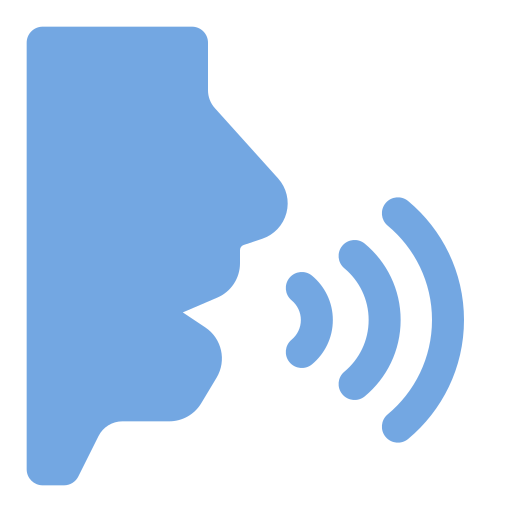
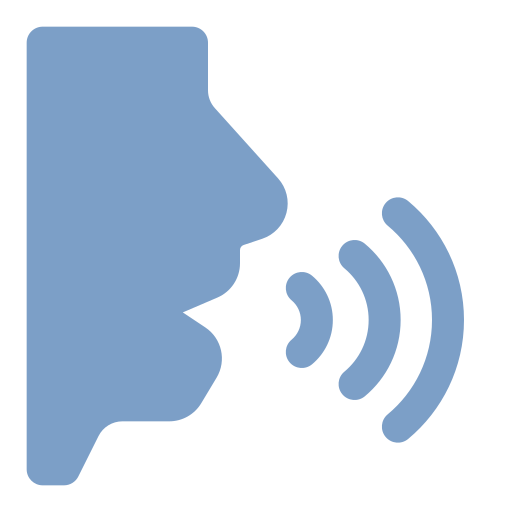
Ajustes acessibilidade

diff --git a/public/introducao.html b/public/introducao.html
@@ -13,7 +13,7 @@
     <header>
         <nav>
             <ul>
-                <li class="liPrincipal"><a href="../index.html" title="Página inicial" tabindex="0">INÍCIO</a></li>
+                <li class="liPrincipal" id="inicio"><a href="../index.html" title="Página inicial" tabindex="0">INÍCIO</a></li>
                 <li class="liPrincipal" style="background-color: #e9e9e9; box-shadow:1px 1px 1px #050505a4"><a href="introducao.html" title="Introdução" tabindex="0">INTRODUÇÃO</a></li>
                 <li class="liPrincipal"><a href="dicas.html" title="Dicas" tabindex="0">DICAS</a></li>
                 <li class="liPrincipal"><a href="passos.html" title="Passo a passo" tabindex="0"><img width="22px" src="../assets/img/icones/quebra-cabeca.png" alt="Ícone quebra-cabeça"></a></li>
@@ -27,7 +27,7 @@
         </nav>
     </header>
     <article id="acessibilidade">
-        <a href="#" title="Modo Escuro"><img src="../assets/img/icones/visivel.png" alt="Ícone modo escuro"></a>
+        <a href="#" title="Modo Escuro"><img src="../assets/img/icones/modo-noturno.png" alt="Ícone modo escuro"></a>
         <a href="#" title="Voz"><img src="../assets/img/icones/comando-de-voz.png" alt="Ícone voz"></a>
     </article>
     <main id="conteudo_principal">  
@@ -86,6 +86,15 @@
                 <p id="p8"><b>Critérios de sucesso:</b> para cada diretriz, existem critérios de sucesso testáveis. Os critérios são encaixados em três níveis de conformidade: A, AA e AAA.</p>
                 <p id="p9"><b>Técnicas:</b> para cada diretriz e critérios de sucesso, existem técnicas para alcançá-los. Existem duas categorias de técnicas: necessárias (para satisfazer o critério) e sugeridas (vão além do que é exigido).</p>
             </article>
+            <aside>
+                <h2 id="setaVolta">
+                    <a href="#inicio" title="Início">
+                        <span class="material-symbols-outlined">
+                            &#8634;
+                        </span>
+                    </a>
+                </h2>
+            </aside>
         </section>
     </main>
 </body>

diff --git a/assets/css/introducao.css b/assets/css/introducao.css
@@ -438,10 +438,12 @@ p{
     left: 0; /* Alinha ao início da lateral esquerda */
     background-color: #000027; /* Cor de fundo */
     color: #fff; /* Cor do texto */
-    padding: 8px 16px; /* Padding interno */
+    padding: 8px 10px; /* Padding interno */
     z-index: 100; /* Camada superior */
     transition: top 0.3s ease; /* Transição suave para a posição */
     border-radius: 15px; /* Arredondamento dos cantos */
+    font-family: 'Gill Sans', 'Gill Sans MT', Calibri, 'Trebuchet MS', sans-serif;
+    text-decoration: none;
 }
 
 .skiplink:focus {
@@ -460,6 +462,8 @@ p{
     gap: 10px;
     z-index: 1000; /* Para garantir que fique acima de outros elementos */
     background-color: #ffffff;
+    padding: 7px;
+    border-radius: 0px 20px 20px 0px;
 }
 
 #acessibilidade a {
@@ -468,8 +472,8 @@ p{
 }
 
 #acessibilidade img {
-    width: 40px; /* Tamanho dos ícones */
-    height: 40px;
+    width: 30px; /* Tamanho dos ícones */
+    height: 30px;
     cursor: pointer;
     transition: transform 0.2s;
 }
@@ -477,3 +481,17 @@ p{
 #acessibilidade img:hover {
     transform: scale(1.1); /* Efeito de zoom ao passar o mouse */
 }
+
+
+#setaVolta{
+    text-align: right;
+    width: 100%;
+    margin-top: 50px;
+  }
+
+  #setaVolta a{
+    text-decoration: none;
+    padding: 1px 5px;
+    border-radius: 100px;
+    background-color: #ffffff;
+  }

diff --git a/assets/css/sobre.css b/assets/css/sobre.css
@@ -173,13 +173,15 @@ h3{
 /*Estilo icones acessibilidade*/
 
 #acessibilidade {
-    position: fixed;  /* Posiciona o elemento fixo na tela */
+    position: fixed;
     margin-top: 250px;
-    display: flex;  /* Exibe itens em cada linha */
-    flex-direction: column; /* Alinha itens verticalmente */
+    display: flex;
+    flex-direction: column;
     gap: 10px;
     z-index: 1000; /* Para garantir que fique acima de outros elementos */
-    background-color: #00021a;
+    background-color: #152576;
+    padding: 7px;
+    border-radius: 0px 20px 20px 0px;
 }
 
 #acessibilidade a {
@@ -188,16 +190,15 @@ h3{
 }
 
 #acessibilidade img {
-    width: 40px; /* Tamanho dos ícones */
-    height: 40px;
+    width: 30px; /* Tamanho dos ícones */
+    height: 30px;
     cursor: pointer;
-    transition: transform 0.2s; /* Transição suave para transformação */
+    transition: transform 0.2s;
 }
 
 #acessibilidade img:hover {
     transform: scale(1.1); /* Efeito de zoom ao passar o mouse */
 }
-
 /* Responsividade do conteúdo principal para telas até 1024px */
 
 @media (min-width: 769px) and (max-width: 1024px) {

diff --git a/assets/css/relatos.css b/assets/css/relatos.css
@@ -7,9 +7,8 @@ body {
 /* Layout principal */
 main {
     display: flex;
-    height: auto;
-    background-image: url("../img/fundo.png");
-    background-size: cover;
+    height: 100vh;
+    
 }
 
 /* Seção 2 */
@@ -18,6 +17,8 @@ main {
     text-align: center;
     padding: 50px 40px !important;
     height: auto;
+    background-image: url("../img/fundo.png");
+    background-size: cover;
 }
 
 /* Seção 1 */
@@ -104,6 +105,8 @@ main {
     gap: 10px;
     z-index: 1000; /* Para garantir que fique acima de outros elementos */
     background-color: #ffffff;
+    padding: 7px;
+    border-radius: 0px 20px 20px 0px;
 }
 
 #acessibilidade a {
@@ -112,8 +115,8 @@ main {
 }
 
 #acessibilidade img {
-    width: 40px; /* Tamanho dos ícones */
-    height: 40px;
+    width: 30px; /* Tamanho dos ícones */
+    height: 30px;
     cursor: pointer;
     transition: transform 0.2s;
 }
@@ -121,6 +124,7 @@ main {
 #acessibilidade img:hover {
     transform: scale(1.1); /* Efeito de zoom ao passar o mouse */
 }
+
 
 /* Estilos responsivos para telas pequenas */
 @media (max-width: 567px) {

diff --git a/index.html b/index.html
@@ -25,8 +25,8 @@
     </header>
 
     <article id="acessibilidade">
-        <a href="#" title="Modo Escuro"><img src="assets/img/icones/visivel.png" alt="Ícone modo escuro"></a>
-        <a href="#" title="Voz"><img src="assets/img/icones/comando-de-voz.png" alt="Ícone voz"></a>
+        <a href="#" title="Modo Escuro"><img src="assets/img/icones/modo-noturno.png" alt="Ícone modo escuro" title="Modo escuro"></a>
+        <a href="#" title="Voz"><img src="assets/img/icones/comando-de-voz.png" alt="Ícone voz" title="Comando de voz"></a>
     </article>
     
     

diff --git a/assets/css/dicas.css b/assets/css/dicas.css
@@ -244,7 +244,9 @@ main section .articlePre {
     flex-direction: column;
     gap: 10px;
     z-index: 1000; /* Para garantir que fique acima de outros elementos */
-    background-color: #00021a;
+    background-color: #042054;
+    padding: 7px;
+    border-radius: 0px 20px 20px 0px;
 }
 
 #acessibilidade a {
@@ -253,8 +255,8 @@ main section .articlePre {
 }
 
 #acessibilidade img {
-    width: 40px; /* Tamanho dos ícones */
-    height: 40px;
+    width: 30px; /* Tamanho dos ícones */
+    height: 30px;
     cursor: pointer;
     transition: transform 0.2s;
 }

diff --git a/assets/css/suporte.css b/assets/css/suporte.css
@@ -258,7 +258,9 @@ main {
     flex-direction: column;
     gap: 10px;
     z-index: 1000; /* Para garantir que fique acima de outros elementos */
-    background-color: #00021a;
+    background-color: #0f1b59;
+    padding: 7px;
+    border-radius: 0px 20px 20px 0px;
 }
 
 #acessibilidade a {
@@ -267,8 +269,8 @@ main {
 }
 
 #acessibilidade img {
-    width: 40px; /* Tamanho dos ícones */
-    height: 40px;
+    width: 30px; /* Tamanho dos ícones */
+    height: 30px;
     cursor: pointer;
     transition: transform 0.2s;
 }

diff --git a/assets/css/passos.css b/assets/css/passos.css
@@ -185,7 +185,9 @@ h2 {
     flex-direction: column;
     gap: 10px;
     z-index: 1000; /* Para garantir que fique acima de outros elementos */
-    background-color: #00021a;
+    background-color: #0e445f;
+    padding: 7px;
+    border-radius: 0px 20px 20px 0px;
 }
 
 #acessibilidade a {
@@ -194,8 +196,8 @@ h2 {
 }
 
 #acessibilidade img {
-    width: 40px; /* Tamanho dos ícones */
-    height: 40px;
+    width: 30px; /* Tamanho dos ícones */
+    height: 30px;
     cursor: pointer;
     transition: transform 0.2s;
 }

diff --git a/assets/css/paginaInicial.css b/assets/css/paginaInicial.css
@@ -182,6 +182,8 @@ nav ul li a {
     gap: 10px;
     z-index: 1000; /* Para garantir que fique acima de outros elementos */
     background-color: #ffffff;
+    padding: 7px;
+    border-radius: 0px 20px 20px 0px;
 }
 
 #acessibilidade a {
@@ -190,8 +192,8 @@ nav ul li a {
 }
 
 #acessibilidade img {
-    width: 40px; /* Tamanho dos ícones */
-    height: 40px;
+    width: 30px; /* Tamanho dos ícones */
+    height: 30px;
     cursor: pointer;
     transition: transform 0.2s;
 }

diff --git a/public/relatos.html b/public/relatos.html
@@ -16,7 +16,7 @@
         </nav>
     </header>
     <article id="acessibilidade">
-        <a href="#" title="Modo Escuro"><img src="../assets/img/icones/visivel.png" alt="Ícone modo escuro"></a>
+        <a href="#" title="Modo Escuro"><img src="../assets/img/icones/modo-noturno.png" alt="Ícone modo escuro"></a>
         <a href="#" title="Voz"><img src="../assets/img/icones/comando-de-voz.png" alt="Ícone voz"></a>
     </article>
     <main class="container">

diff --git a/public/passos.html b/public/passos.html
@@ -24,7 +24,7 @@
         </nav>
     </header>
     <article id="acessibilidade">
-        <a href="#" title="Modo Escuro"><img src="../assets/img/icones/visivel.png" alt="Ícone modo escuro"></a>
+        <a href="#" title="Modo Escuro"><img src="../assets/img/icones/modo-noturno.png" alt="Ícone modo escuro"></a>
         <a href="#" title="Voz"><img src="../assets/img/icones/comando-de-voz.png" alt="Ícone voz"></a>
     </article>
     <main>                

diff --git a/public/manual.html b/public/manual.html
@@ -15,7 +15,7 @@
         </nav>
     </header>
     <article id="acessibilidade">
-        <a href="#" title="Modo Escuro"><img src="../assets/img/icones/visivel.png" alt="Ícone modo escuro"></a>
+        <a href="#" title="Modo Escuro"><img src="../assets/img/icones/modo-noturno.png" alt="Ícone modo escuro"></a>
         <a href="#" title="Voz"><img src="../assets/img/icones/comando-de-voz.png" alt="Ícone voz"></a>
     </article>
     <main id="conteudo">
